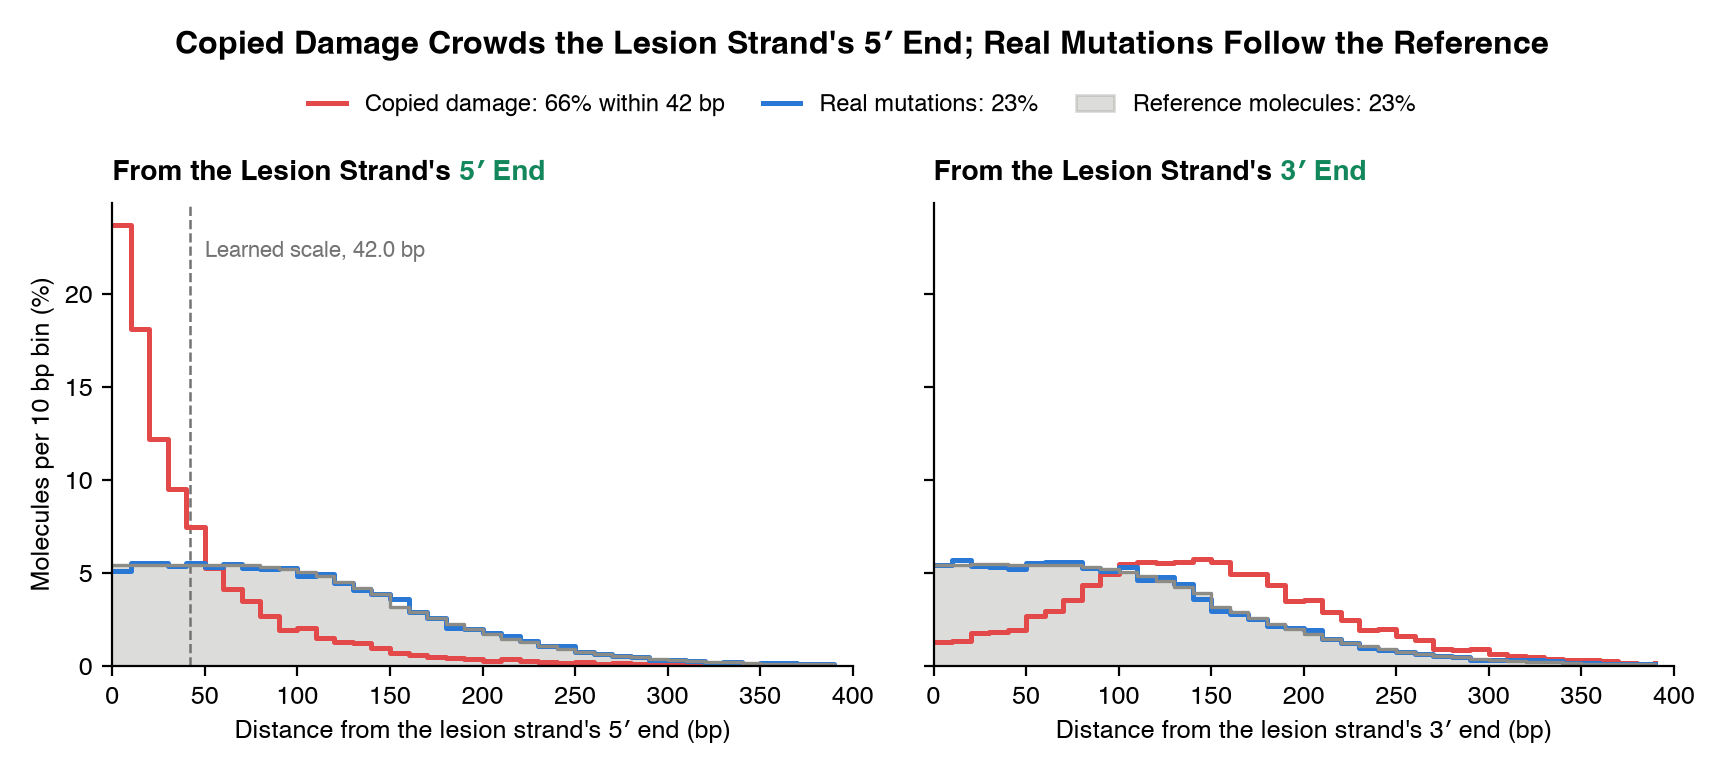
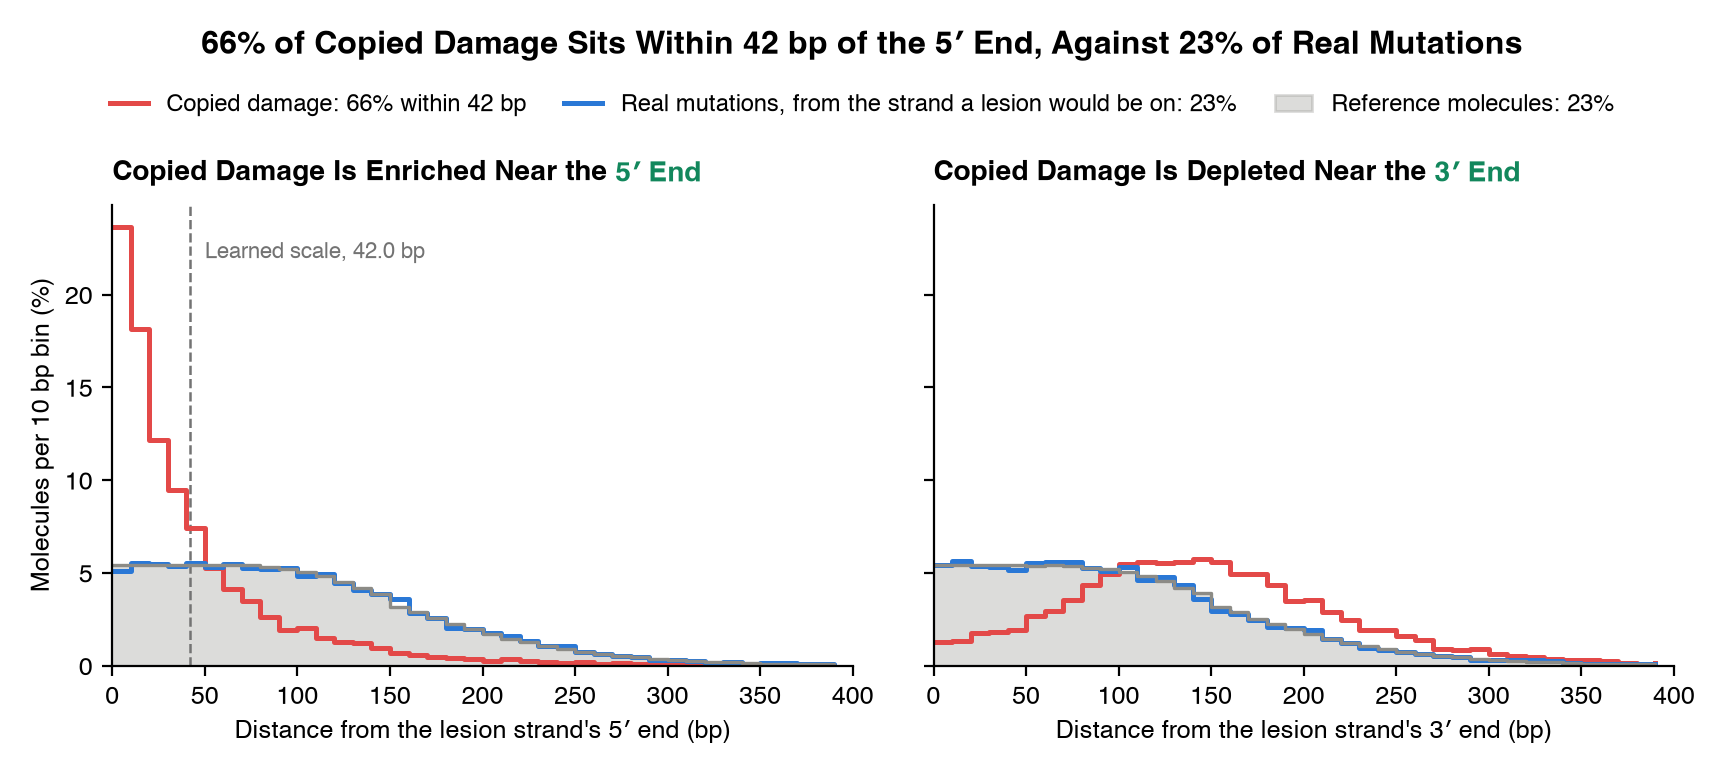
docs(figures): title each figure by its outcome and put the legends in one row above
Every figure and panel title now states its result with numbers taken from the simulation, the legends sit in one row above the plots, the filtering figure's x axis says it is log scale, the ends figure names the strand a real mutation is measured from, and the learning inset's tick labels render in Helvetica rather than its small-size bitmap.

diff --git a/tests/figures.py b/tests/figures.py
@@ -31,8 +31,7 @@ CPG_CT = [ch for ch in CHANNELS if ch[2:5] == "C>T" and ch[-1] == "G"]
 ALT_COLOR, REF_COLOR, REAL_COLOR, GRAY, GREEN = "#e34948", "#8c8b86", "#2a78d6", "0.45", "#12875c"
 RAMP = ["#b7aee8", "#8a7cd3", "#5f4fbb", "#33267f"]
 COMPLEMENT = str.maketrans("ACGTN", "TGCAN")
-LEARNING_TITLE = "Where Copied Damage Is Heavy, the Learned Prior Understates It"
-BURDEN_TITLE = "Weighting Calls by CDAP Removes Most of the Burden Inflation; a Threshold Removes Little"
+LEARNING_TITLE = "The Learned Artifact Fraction Understates Heavy Damage but Ranks Libraries Correctly"
 
 
 def spectrum(rng):
@@ -180,7 +179,7 @@ def finish(fig, name, title):
 
 def ends_figure(truth, called):
     scale = metrics(WORK, "distance")
-    groups = [("artifact", "Copied damage", ALT_COLOR, "cdac"), ("real", "Real mutations", REAL_COLOR, "cdac"),
+    groups = [("artifact", "Copied damage", ALT_COLOR, "cdac"), ("real", "Real mutations, from the strand a lesion would be on", REAL_COLOR, "cdac"),
               ("reference", "Reference molecules", REF_COLOR, "cdrc")]
     measured, bins = distances(truth), np.arange(0, 401, 10)
     fig, axes = plt.subplots(1, 2, figsize=(8.6, 3.2), sharey=True)
@@ -194,18 +193,21 @@ def ends_figure(truth, called):
         ax.set_xlim(0, 400)
         ax.set_xlabel(f"Distance from the lesion strand's {end_label} end (bp)")
         bold = {"fontweight": "bold"}
-        label(ax, 0, 1.04, [("From the Lesion Strand's ", bold), (f"{end_label} End", {**bold, "color": GREEN})], fontsize=10, va="bottom")
+        trend = "Enriched" if end_label == "5′" else "Depleted"
+        label(ax, 0, 1.04, [(f"Copied Damage Is {trend} Near the ", bold), (f"{end_label} End", {**bold, "color": GREEN})], fontsize=10, va="bottom")
     axes[0].set_ylabel("Molecules per 10 bp bin (%)")
     axes[0].set_ylim(0, None)
     axes[0].axvline(scale, color=GRAY, lw=0.9, ls="--", zorder=1)
     axes[0].text(scale + 8, axes[0].get_ylim()[1] * 0.92, f"Learned scale, {scale:.1f} bp", fontsize=8, color=GRAY, va="top")
-    handles = []
+    handles, shares = [], {}
     for kind, name, color, field in groups:
-        text = f"{name}: {share(called, truth, None if kind == 'reference' else kind, field):.0f}%" + (f" within {scale:.0f} bp" if kind == "artifact" else "")
+        shares[kind] = share(called, truth, None if kind == "reference" else kind, field)
+        text = f"{name}: {shares[kind]:.0f}%" + (f" within {scale:.0f} bp" if kind == "artifact" else "")
         handles.append(Patch(facecolor=color, alpha=0.3, edgecolor=color, label=text) if kind == "reference" else Line2D([], [], color=color, lw=1.8, label=text))
     fig.tight_layout(w_pad=2.0)
     fig.legend(handles=handles, loc="lower center", bbox_to_anchor=(0.5, 0.99), ncol=3, fontsize=8.5, handlelength=1.6, columnspacing=1.6)
-    finish(fig, "copied-damage-ends.png", "Copied Damage Crowds the Lesion Strand's 5′ End; Real Mutations Follow the Reference")
+    title = f"{shares['artifact']:.0f}% of Copied Damage Sits Within {scale:.0f} bp of the 5′ End, Against {shares['real']:.0f}% of Real Mutations"
+    finish(fig, "copied-damage-ends.png", title)
 
 
 def spectrum_row(ax, truth, keep, title, detail):
@@ -248,22 +250,26 @@ def outcome_figure(truth, chaff, fgbio):
     grid = fig.add_gridspec(2, 2, width_ratios=[2.4, 1], hspace=0.12, wspace=0.16)
     before = fig.add_subplot(grid[0, 0])
     after = fig.add_subplot(grid[1, 0], sharey=before)
-    top = spectrum_row(before, truth, lambda p: True, "Before chaff", ": All Calls").max()
-    heights = spectrum_row(after, truth, lambda p: not chaff[p]["filtered"], "After chaff", f": Calls Passing a Threshold of {THRESHOLD}")
+    cpg = [p for p, t in truth.items() if t["channel"] in CPG_CT]
+    tripled = len(cpg) / sum(truth[p]["kind"] == "real" for p in cpg)
+    artifacts = [p for p, t in truth.items() if t["kind"] == "artifact"]
+    remaining = 100 * np.mean([not chaff[p]["filtered"] for p in artifacts])
+    multiple = "Nearly Triples" if 2.5 <= tripled < 3 else f"Multiplies by {tripled:.1f}"
+    top = spectrum_row(before, truth, lambda p: True, "Before chaff", f": Copied Damage {multiple} the CpG C>T Peaks").max()
+    heights = spectrum_row(after, truth, lambda p: not chaff[p]["filtered"], f"After chaff at {THRESHOLD}", f": {remaining:.0f}% of Copied Damage Remains")
     for ch in CPG_CT:
         i = CHANNELS.index(ch)
         after.text(i, heights[i] + top * 0.05, ch[0] + "CG", rotation=90, ha="center", va="bottom", fontsize=7.5, color="#12875c",
                    fontfamily=["Menlo", "DejaVu Sans Mono"], bbox={"boxstyle": "round,pad=0.25,rounding_size=0.4", "facecolor": "#1baf7a", "alpha": 0.18, "edgecolor": "none"})
-    before.set_ylim(0, top * 1.02)
+    before.set_ylim(0, top * 1.18)
     for i, cls in enumerate(CLASSES):
-        before.add_patch(plt.Rectangle((i * 16 - 0.45, top * 1.04), 15.9, top * 0.05, color=CLASS_COLOR[cls], clip_on=False, lw=0))
-        before.text(i * 16 + 7.5, top * 1.12, cls, ha="center", va="bottom", fontsize=8.5)
+        before.add_patch(plt.Rectangle((i * 16 - 0.45, top * 1.2), 15.9, top * 0.05, color=CLASS_COLOR[cls], clip_on=False, lw=0))
+        before.text(i * 16 + 7.5, top * 1.28, cls, ha="center", va="bottom", fontsize=8.5)
     after.set_xticks(range(len(CHANNELS)), [ch[0] + ch[2] + ch[6] for ch in CHANNELS], rotation=90, fontsize=5, fontfamily=["Menlo", "DejaVu Sans Mono"])
     after.tick_params(axis="x", length=0, pad=2)
     for tick, ch in zip(after.get_xticklabels(), CHANNELS):
         tick.set_fontweight("bold" if ch in CPG_CT else "normal")
     handles = [Patch(facecolor=GRAY, edgecolor=GRAY, label="Real mutations"), Patch(facecolor="white", edgecolor=GRAY, hatch="//////", label="Copied damage")]
-    after.legend(handles=handles, loc="upper right", fontsize=8.5, ncol=2, handlelength=1.4, bbox_to_anchor=(1.0, 1.0))
     ax = fig.add_subplot(grid[:, 1])
     for n, color in zip(ALT_MOLECULES, RAMP):
         ax.plot(*roc(chaff, truth, n), color=color, lw=1.6, drawstyle="steps-post", zorder=2)
@@ -273,14 +279,17 @@ def outcome_figure(truth, chaff, fgbio):
     ax.set_xlim(0, 100)
     ax.set_ylim(0, 102)
     ax.set_xticks([0, 1, 10, 100], ["0", "1", "10", "100"])
-    ax.set_xlabel("Real C>T at CpG filtered (%)")
+    ax.set_xlabel("Real C>T at CpG filtered (%, log scale)")
     ax.set_ylabel("Copied damage filtered (%)")
-    handles = [Line2D([], [], color=c, lw=1.6, label=f"{n} molecules, AUC {auc(chaff, truth, n):.2f}") for n, c in zip(ALT_MOLECULES, RAMP)]
+    ax.set_title("chaff Filters Far Fewer Real Calls Than fgbio", fontsize=9.5, fontweight="bold", loc="left")
+    handles += [Line2D([], [], color=c, lw=1.6, label=f"{n} molecules, AUC {auc(chaff, truth, n):.2f}") for n, c in zip(ALT_MOLECULES, RAMP)]
     handles += [Line2D([], [], ls="", marker="o", ms=6, mfc=face, mec="black", mew=1.4 if face == "white" else 1.0, label=f"--model {m} at {THRESHOLD}")
                 for m, face in (("chaff", "black"), ("fgbio", "white"))]
-    ax.legend(handles=handles, loc="lower center", bbox_to_anchor=(0.5, 1.02), ncol=2, fontsize=8, handlelength=1.4, columnspacing=1.0)
-    fig.subplots_adjust(left=0.07, right=0.99, bottom=0.12, top=0.9)
-    finish(fig, "copied-damage-filtering.png", "A Threshold Spares Real Mutations but Misses Most Copied Damage at 2 or 3 Molecules")
+    fig.subplots_adjust(left=0.07, right=0.99, bottom=0.12, top=0.86)
+    fig.legend(handles=handles, loc="lower center", bbox_to_anchor=(0.5, 0.93), ncol=len(handles), fontsize=7.5, handlelength=1.3, columnspacing=0.9, handletextpad=0.4)
+    real_cpg = [p for p in cpg if truth[p]["kind"] == "real"]
+    kept = 100 * np.mean([not chaff[p]["filtered"] for p in real_cpg])
+    finish(fig, "copied-damage-filtering.png", f"At {THRESHOLD}, chaff Keeps {kept:.0f}% of Real CpG C>T Calls but Misses Most Copied Damage at 2–3 Molecules")
 
 
 LIBRARIES = [(f, 30) for f in (0, 0.05, 0.1, 0.2, 0.3, 0.4, 0.5, 0.6)] + [(0.4, 15), (0.4, 60)]
@@ -321,7 +330,7 @@ def learning_figure(libs):
     left.set_ylim(0, 70)
     left.set_xlabel("True copied damage (% of calls)")
     left.set_ylabel("Learned artifact fraction (%)")
-    left.set_title("Learned Against True Damage", fontsize=10, fontweight="bold", loc="left")
+    left.set_title("The Learned Fraction Falls Below the True Share Above 5%", fontsize=9.5, fontweight="bold", loc="left")
     inset = left.inset_axes([0.66, 0.13, 0.31, 0.29])
     inset.plot([0, 80], [0, 80], color=GRAY, lw=0.8, ls="--", zorder=1)
     for lib in libs:
@@ -330,11 +339,10 @@ def learning_figure(libs):
             inset.scatter(lib["scale"], lib["learned_scale"], s=size / 2.5, marker=marker, facecolors=face, edgecolors=ALT_COLOR, linewidths=1.0, zorder=3)
     inset.set_xlim(0, 80)
     inset.set_ylim(0, 80)
-    inset.set_xticks([0, 30, 60])
-    inset.set_yticks([0, 30, 60])
-    inset.tick_params(labelsize=7)
+    inset.set_xticks([0, 30, 60], ["0", "30", "60"], fontsize=7.5)
+    inset.set_yticks([0, 30, 60], ["0", "30", "60"], fontsize=7.5)
     inset.set_xlabel("True scale (bp)", fontsize=7.5)
-    inset.set_ylabel("Learned (bp)", fontsize=7.5)
+    inset.set_ylabel("Learned scale (bp)", fontsize=7.5)
     right.plot([0, 1], [0, 1], color=GRAY, lw=0.9, ls="--", zorder=1)
     for model, face, style in (("chaff", REAL_COLOR, "-"), ("fgbio", "white", "--")):
         x, y, _ = zip(*calibration(libs, model))
@@ -345,11 +353,12 @@ def learning_figure(libs):
     right.set_yticks([0, 0.2, 0.4, 0.6, 0.8, 1.0])
     right.set_xlabel("CDAP, the posterior that a call is real")
     right.set_ylabel("Calls that are real")
-    right.set_title("Its Posteriors Lean Toward Real", fontsize=10, fontweight="bold", loc="left")
-    right.legend(loc="lower right", fontsize=8.5, handlelength=1.4)
+    right.set_title("chaff's Posteriors Are More Often Right Than fgbio's", fontsize=9.5, fontweight="bold", loc="left")
     shapes = [Line2D([], [], ls="", marker=m, ms=6, mfc=face, mec=ALT_COLOR, mew=1.3, label=f"{scale} bp fill-in") for scale, (m, face, _) in SHAPES.items()]
-    left.legend(handles=shapes, loc="upper left", fontsize=8.5, handlelength=1.0)
+    models, labels = right.get_legend_handles_labels()
     fig.tight_layout(w_pad=3.0)
+    fig.legend(handles=shapes + models, labels=[h.get_label() for h in shapes] + labels, loc="lower center", bbox_to_anchor=(0.5, 0.98), ncol=5, fontsize=8.5,
+               handlelength=1.0, columnspacing=1.6)
     finish(fig, "copied-damage-learning.png", LEARNING_TITLE)
 
 
@@ -371,17 +380,21 @@ def burden_figure(libs):
     fig, ax = plt.subplots(figsize=(7.0, 4.2))
     ax.axhline(1, color=GRAY, lw=0.9, ls="--", zorder=1)
     x = [100 * lib["fraction"] for lib in libs]
+    heaviest = {}
     for estimator, name, color in (("raw", "Every call", REF_COLOR), ("threshold", f"Calls passing a CDAP threshold of {THRESHOLD}", ALT_COLOR),
                                    ("weighted", "Calls weighted by CDAP", REAL_COLOR)):
         y = [burden(lib, estimator) for lib in libs]
+        heaviest[estimator] = y[-1]
         ax.plot(x, y, color=color, lw=1.6, marker="o", ms=5, label=name, zorder=3)
     ax.set_xlim(0, 62)
     ax.set_ylim(0.8, None)
     ax.set_xlabel("True copied damage (% of calls)")
     ax.set_ylabel("Estimated real calls / true real calls")
-    ax.legend(loc="upper left", fontsize=8.5, handlelength=1.6)
+    ax.legend(loc="lower center", bbox_to_anchor=(0.5, 1.0), ncol=3, fontsize=8.5, handlelength=1.6, columnspacing=1.6)
     fig.tight_layout()
-    finish(fig, "copied-damage-burden.png", BURDEN_TITLE)
+    title = (f"Weighting by CDAP Cuts a {heaviest['raw']:.1f}-Fold Overcount to {heaviest['weighted']:.1f}-Fold; "
+             f"a Threshold Leaves {heaviest['threshold']:.1f}-Fold")
+    finish(fig, "copied-damage-burden.png", title)
 
 
 if __name__ == "__main__":
